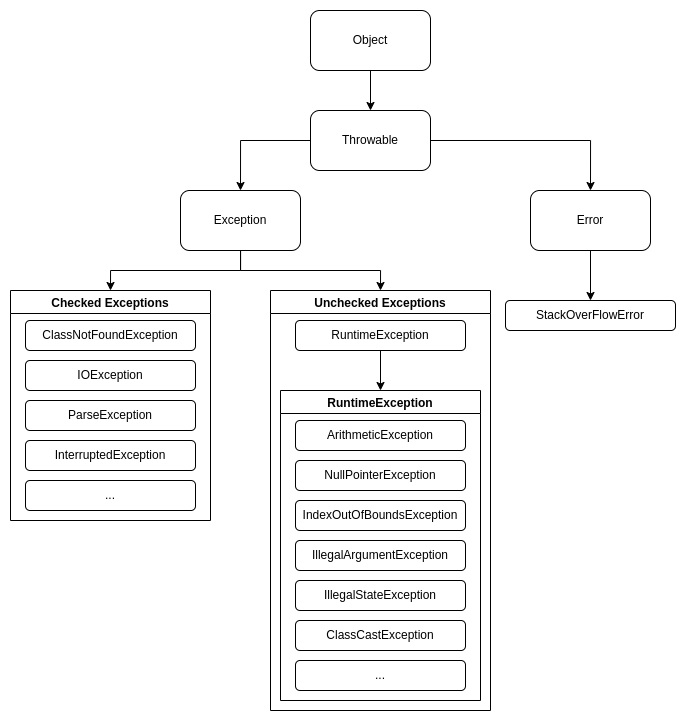
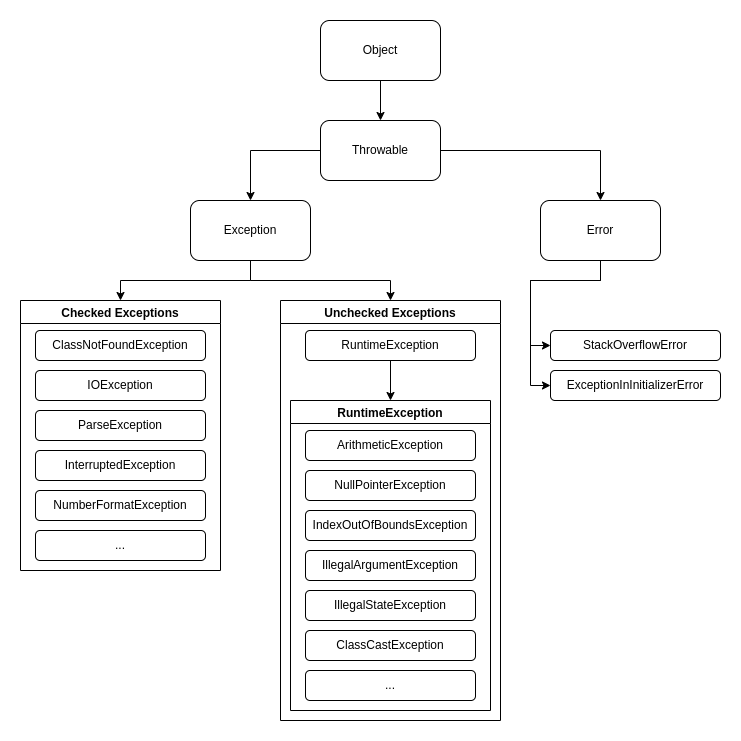
Add new examples

diff --git a/src/main/java/eu/ciechanowiec/throwable/throwableproducer/CheckedExceptionsProducer.java b/src/main/java/eu/ciechanowiec/throwable/throwableproducer/CheckedExceptionsProducer.java
@@ -23,6 +23,7 @@ class CheckedExceptionsProducer {
         producer.io();
         producer.parse();
         producer.interrupted();
+        producer.numberFormatException();
     }
 
     private void classNotFound() throws InterruptedException {
@@ -86,6 +87,22 @@ class CheckedExceptionsProducer {
         TimeUnit.SECONDS.sleep(2); // To let the thread start before it will be interrupted
         Printer.printToConsole("Interrupting the sleeping thread...");
         sleepingThread.interrupt();
+    }
+
+    private void numberFormatException() throws InterruptedException {
+        TimeUnit.SECONDS.sleep(1);
+        Printer.separateUsageCase("NumberFormatException");
+        try {
+            String validNumberRepresentation = "6";
+            String invalidNumberRepresentation = "six";
+            Printer.printToConsole("Parsing valid number representation...");
+            Integer.parseInt(validNumberRepresentation);
+            Printer.printToConsole("Parsing invalid number representation...");
+            Integer.parseInt(invalidNumberRepresentation);
+        } catch (NumberFormatException exception) {
+            TimeUnit.SECONDS.sleep(1);
+            Logger.error(exception);
+        }
     }
 
     private static class SleepingThread extends Thread {

diff --git a/README.md b/README.md
@@ -13,6 +13,7 @@ Below some of the most common types of `Throwable` in Java are listed. Their usa
 * IOException
 * ParseException
 * InterruptedException
+* NumberFormatException
 * RuntimeException:
   * ArithmeticException
   * NullPointerException
@@ -22,11 +23,11 @@ Below some of the most common types of `Throwable` in Java are listed. Their usa
   * ClassCastException
 
 ### Errors
-* StackOverFlowError
-* AssertionError
+* StackOverflowError
+* ExceptionInInitializerError
 
 ### Mnemonics
-Checked exceptions: C **io** P **i**</br>
+Checked exceptions: C **io** P **i** **N**</br>
 Unchecked exceptions: **A** n i i **C**
 
 ## Throwable Tree
@@ -71,9 +72,9 @@ Unchecked exceptions: **A** n i i **C**
 
 ## Handling Caught Exceptions
 Here are some possibilities of how to handle caught exceptions, although not all of those possibilities can be treated as good practice. Some of listed actions can be mixed:  
-* modify the caught exception (r.g. change the stack trace)
+* modify the caught exception (e.g. change the stack trace)
 * log the exception
-* repack the caught exception into another exception
+* repack (wrap, chain) the caught exception into another exception, i.e. to set the caught exception as the cause af a new one 
 * perform some logic after catching the exception (e.g. remove the file created inside the `try` block)
 * swallow the caught exception (do nothing)
 * change the flow of the program

diff --git a/questions.md b/questions.md
@@ -1,4 +1,4 @@
-BASIC:
+# BASIC:
 Root class/interface for exceptions?
 5 checked exceptions?
 5 unchecked exceptions?
